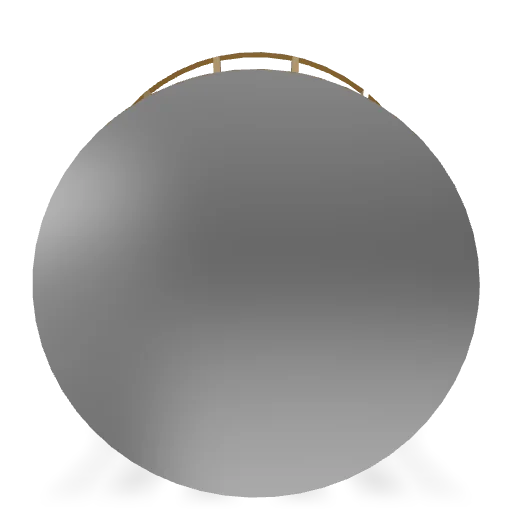
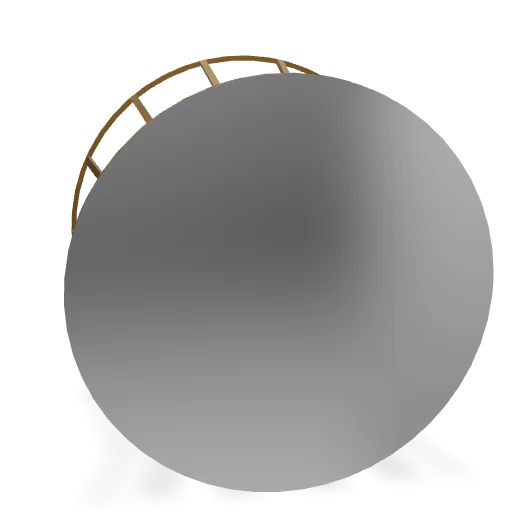
addes new files

diff --git a/index.html b/index.html
@@ -11,7 +11,7 @@
   </head>
   <body>
     <!-- <model-viewer> HTML element -->
-    <model-viewer src="fgfgfff.glb" ar ar-modes="webxr scene-viewer quick-look" camera-controls poster="poster.webp" shadow-intensity="1">
+    <model-viewer src="fgfgfff.glb" ar ar-modes="webxr scene-viewer quick-look" camera-controls poster="poster.webp" shadow-intensity="1" camera-target="-0.01m 0.3751m 0.263m" auto-rotate>
       <div class="progress-bar hide" slot="progress-bar">
           <div class="update-bar"></div>
       </div>
